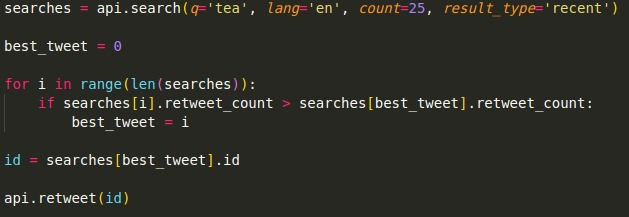
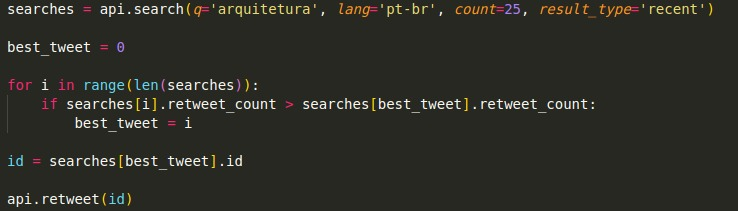
Fim do Readme.md

diff --git a/Readme.md b/Readme.md
@@ -1,18 +1,18 @@
-# Tea Bot for Twitter
+# Bot sobre arquitetura para Twitter
 
-Tea bot for Twitter is a bot made in Python with the <a href="https://www.tweepy.org/">Tweepy</a> library. The bot searches the Twitter for tea related tweets and retweets the ones with more retweets.
+Bot sobre arquitetura para Twitter é um bot feito em Python com o uso da biblioteca <a href="https://www.tweepy.org/">Tweepy</a>. Este bot procura entre os tweets mais recentes quais são os relacionados a arquitetura e seleciona o que recebeu mais retweets.
 
-## How it works?
+## Como ele funciona?
 
-First you need to setup the keys for the Twitter API. Here I used environ, from the os library, to set this up as environment variables, since I don't want anyone to get these keys.
+Primeiro devemos colocar as keys da API do Twitter. Aqui em usei o environ, da biblioteca os, para setar as keys como variáveis ambientais, já que não quero que outras pessoas tenham acesso a esses dados sensíveis.
 
 <p align="center">
 <img src="./readmeImages/settingsKeys.jpeg">
 </p>
 
-After that, I set an search query with the term that I wanted to use as a base, a language, how many posts I want the app to collect, and the result types that I want.
+Depois disto, programei uma search query com o termo que usei como base, que linguagem eu quero filtrar, quantos tweets quero coletar e qual o tipo de pesquisa o script deve realizar.
 
-With that search, I programmed a for loop to get the id of the tweet that received the most retweets. Finishing it, I ordered the script to retweet the tweet that was gotten on the for loop.
+Com o resultado desta pesquisa, programei um for loop para pegar o id do tweet que recebeu mais retweets. Para finalizar o script, mandei que o mesmo retweetasse o tweet com o id que saiu do loop.
 
 <p align="center">
 <img src="./readmeImages/searchQuery.jpeg">
